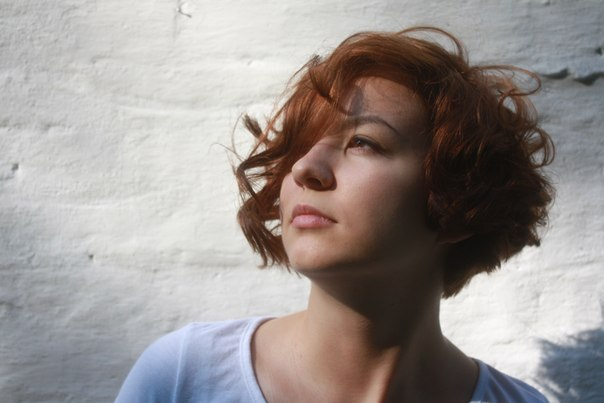
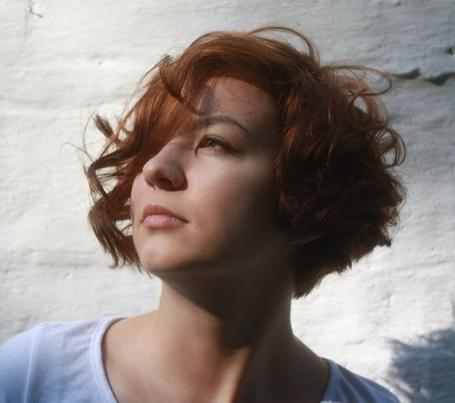
change image

diff --git a/index.html b/index.html
@@ -10,7 +10,7 @@
 <body>
 <div class="container">
   <h1>Глазырина Светлана Юрьевна</h1>
-  <h3>Программист Ruby on Rails: Junior</h3>
+  <h3>Программист Ruby on Rails</h3>
   <div class="row" style="border-top: 1px solid #D1D1D1; padding-top: 25px; padding-bottom: 25px;">
       <div class="five columns">
         <h3>О себе:</h3>
@@ -22,7 +22,7 @@
         <p>Занятость: полная занятость</p>
       </div>
       <div class="seven columns">
-        <img src="img/glazyrina_svetlana.jpg" width="500" alt="[Фото]">
+        <img src="img/glazyrina_svetlana.jpg" class="round" alt="[Фото]">
       </div>
   </div>
   <div class="row" style="border-top: 1px solid #D1D1D1; padding-top: 25px; padding-bottom: 25px;">
@@ -33,20 +33,20 @@
       <ul>
         <li>Ruby</li>
         <li>Ruby on Rails</li>
-        <li>Rspec</li>
         <li>XML</li>
         <li>JSON</li>
         <li>ООП</li>
+        <li>TDD</li>
       </ul>
     </div>
     <div class="four columns">
       <ul>
-        <li>MySQL</li>
         <li>SQlite</li>
         <li>Linux</li>
         <li>Heroku</li>
         <li>Rubymine</li>
         <li>Git</li>
+        <li>Rspec</li>
       </ul>
     </div>
     <div class="four columns">

diff --git a/css/skeleton.css b/css/skeleton.css
@@ -416,3 +416,13 @@ there.
 
 /* Larger than Desktop HD */
 @media (min-width: 1200px) {}
+
+.round {
+  width: 200px;
+  height: 200px;
+  border-radius: 50%;
+  float: right;
+  margin-top: 30px;
+  margin-right: 50px;
+ } 
+   
